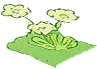
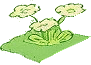
fix(isoworld): les collines restent droites apres le redressement des dalles
Seul le cisaillement vertical corrige la dalle : il rectifie la pente de
chaque bord du losange sans incliner les verticales. Le cisaillement
horizontal equarrissait aussi la dalle mais faisait pencher tout ce qui
est dessus.

Claude-Session: https://claude.ai/code/session_0181CUemCq7n3GdF1haz2AgB

diff --git a/src/game/isoworld/decor.ts b/src/game/isoworld/decor.ts
@@ -10,7 +10,7 @@
 import { Assets, Texture } from 'pixi.js';
 
 export const DECOR_URL = '/assets/world/decor';
-export const DECOR_MANIFEST_URL = `${DECOR_URL}/manifest.json?v=3`;
+export const DECOR_MANIFEST_URL = `${DECOR_URL}/manifest.json?v=4`;
 
 /** How wide a one-cell base is drawn on the artist's sheet, in pixels. */
 export const SHEET_CELL = 130;
@@ -73,7 +73,7 @@ async function load(): Promise<DecorSet> {
   const entries = (await response.json()) as DecorManifestEntry[];
   const pieces = await Promise.all(
     entries.map(async (entry) => {
-      const texture = await Assets.load<Texture>(`${DECOR_URL}/${entry.file}?v=3`);
+      const texture = await Assets.load<Texture>(`${DECOR_URL}/${entry.file}?v=4`);
       texture.source.scaleMode = 'linear';
       return { ...entry, texture };
     }),

diff --git a/tools/split_decor_elements.py b/tools/split_decor_elements.py
@@ -116,10 +116,13 @@ def straighten(piece: Image.Image) -> Image.Image:
     base = [p for p in pts if p[1] >= h * (1 - BASE)]
     L = min(base, key=lambda p: p[0])
     R = max(base, key=lambda p: p[0])
-    width = R[0] - L[0]
-    L2 = (B[0] - width / 2, B[1] - width / 4)
-    R2 = (B[0] + width / 2, B[1] - width / 4)
-    # Forward affine F with F(L)=L2, F(R)=R2, F(B)=B; PIL wants the inverse.
+    # Only the vertical shear is corrected: y' = d x + e y + f, with x left
+    # alone. That fixes the slab's edge angles — each edge's rise over its
+    # run — while every vertical stays vertical, so a hill drawn upright on
+    # a crooked slab is still upright afterwards. A horizontal shear would
+    # square the slab too, but it leans everything standing on it.
+    L2 = (L[0], B[1] - (B[0] - L[0]) / 2)
+    R2 = (R[0], B[1] - (R[0] - B[0]) / 2)
     src = [L, R, B]
     dst = [L2, R2, B]
 
